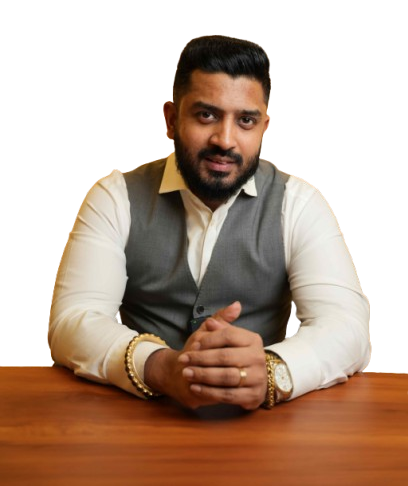
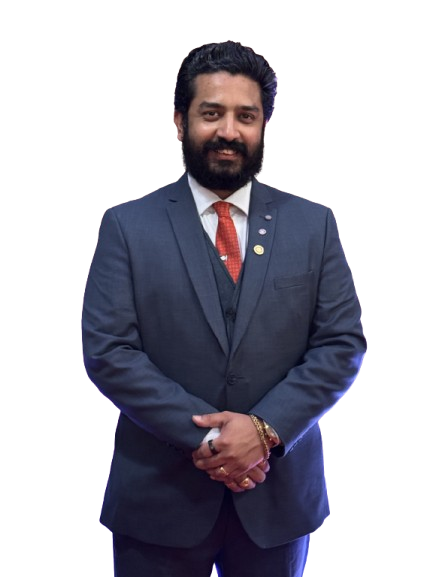
new push

diff --git a/src/app/gallery/page.tsx b/src/app/gallery/page.tsx
@@ -9,23 +9,23 @@ export const metadata = {
 
 // Gallery images from /images/gallery/1.jpg to 75.jpg
 const galleryImages: GalleryImage[] = [
+  { id: 76, src: '/images/gallery/76.jpg', alt: 'MVCON Moment 76', size: 'medium' },
+  { id: 77, src: '/images/gallery/77.jpg', alt: 'MVCON Moment 77', size: 'medium' },
+  { id: 78, src: '/images/gallery/78.jpg', alt: 'MVCON Moment 78', size: 'medium' },
+  { id: 79, src: '/images/gallery/79.jpg', alt: 'MVCON Moment 79', size: 'medium' },
+  { id: 80, src: '/images/gallery/80.jpg', alt: 'MVCON Moment 80', size: 'medium' },
+  { id: 81, src: '/images/gallery/81.jpg', alt: 'MVCON Moment 81', size: 'medium' },
+  { id: 82, src: '/images/gallery/82.jpg', alt: 'MVCON Moment 82', size: 'medium' },
+  { id: 83, src: '/images/gallery/83.jpg', alt: 'MVCON Moment 83', size: 'medium' },
+  { id: 84, src: '/images/gallery/84.jpg', alt: 'MVCON Moment 84', size: 'medium' },
+  { id: 85, src: '/images/gallery/85.jpg', alt: 'MVCON Moment 85', size: 'medium' },
   { id: 1, src: '/images/gallery/1.jpg', alt: 'MVCON Moment 1', size: 'small' },
   { id: 2, src: '/images/gallery/2.jpg', alt: 'MVCON Moment 2', size: 'small' },
-  { id: 3, src: '/images/gallery/3.jpg', alt: 'MVCON Moment 3', size: 'medium' },
-  { id: 4, src: '/images/gallery/4.jpg', alt: 'MVCON Moment 4', size: 'large' },
-  { id: 5, src: '/images/gallery/5.jpg', alt: 'MVCON Moment 5', size: 'small' },
-  { id: 6, src: '/images/gallery/6.jpg', alt: 'MVCON Moment 6', size: 'medium' },
-  { id: 7, src: '/images/gallery/7.jpg', alt: 'MVCON Moment 7', size: 'small' },
+  { id: 4, src: '/images/gallery/4.jpg', alt: 'MVCON Moment 4', size: 'medium' },
   { id: 8, src: '/images/gallery/8.jpg', alt: 'MVCON Moment 8', size: 'large' },
-  { id: 9, src: '/images/gallery/9.jpg', alt: 'MVCON Moment 9', size: 'medium' },
-  { id: 10, src: '/images/gallery/10.jpg', alt: 'MVCON Moment 10', size: 'small' },
   { id: 11, src: '/images/gallery/11.jpg', alt: 'MVCON Moment 11', size: 'small' },
   { id: 12, src: '/images/gallery/12.jpg', alt: 'MVCON Moment 12', size: 'large' },
   { id: 13, src: '/images/gallery/13.jpg', alt: 'MVCON Moment 13', size: 'small' },
-  { id: 14, src: '/images/gallery/14.jpg', alt: 'MVCON Moment 14', size: 'small' },
-  { id: 15, src: '/images/gallery/15.jpg', alt: 'MVCON Moment 15', size: 'medium' },
-  { id: 16, src: '/images/gallery/16.jpg', alt: 'MVCON Moment 16', size: 'large' },
-  { id: 17, src: '/images/gallery/17.jpg', alt: 'MVCON Moment 17', size: 'small' },
   { id: 18, src: '/images/gallery/18.jpg', alt: 'MVCON Moment 18', size: 'medium' },
   { id: 19, src: '/images/gallery/19.jpg', alt: 'MVCON Moment 19', size: 'small' },
   { id: 20, src: '/images/gallery/20.jpg', alt: 'MVCON Moment 20', size: 'large' },
@@ -60,40 +60,29 @@ const galleryImages: GalleryImage[] = [
   { id: 49, src: '/images/gallery/49.jpg', alt: 'MVCON Moment 49', size: 'small' },
   { id: 50, src: '/images/gallery/50.jpg', alt: 'MVCON Moment 50', size: 'small' },
   { id: 51, src: '/images/gallery/51.jpg', alt: 'MVCON Moment 51', size: 'medium' },
-  { id: 52, src: '/images/gallery/52.jpg', alt: 'MVCON Moment 52', size: 'large' },
+  { id: 52, src: '/images/gallery/52.jpg', alt: 'MVCON Moment 52', size: 'small' },
   { id: 53, src: '/images/gallery/53.jpg', alt: 'MVCON Moment 53', size: 'small' },
   { id: 54, src: '/images/gallery/54.jpg', alt: 'MVCON Moment 54', size: 'medium' },
   { id: 55, src: '/images/gallery/55.jpg', alt: 'MVCON Moment 55', size: 'small' },
   { id: 56, src: '/images/gallery/56.jpg', alt: 'MVCON Moment 56', size: 'large' },
   { id: 57, src: '/images/gallery/57.jpg', alt: 'MVCON Moment 57', size: 'medium' },
   { id: 58, src: '/images/gallery/58.jpg', alt: 'MVCON Moment 58', size: 'small' },
-  { id: 59, src: '/images/gallery/59.jpg', alt: 'MVCON Moment 59', size: 'small' },
-  { id: 60, src: '/images/gallery/60.jpg', alt: 'MVCON Moment 60', size: 'large' },
+  { id: 59, src: '/images/gallery/59.jpg', alt: 'MVCON Moment 59', size: 'large' },
+  { id: 60, src: '/images/gallery/60.jpg', alt: 'MVCON Moment 60', size: 'medium' },
   { id: 61, src: '/images/gallery/61.jpg', alt: 'MVCON Moment 61', size: 'small' },
   { id: 62, src: '/images/gallery/62.jpg', alt: 'MVCON Moment 62', size: 'small' },
   { id: 63, src: '/images/gallery/63.jpg', alt: 'MVCON Moment 63', size: 'medium' },
-  { id: 64, src: '/images/gallery/64.jpg', alt: 'MVCON Moment 64', size: 'large' },
+  { id: 64, src: '/images/gallery/64.jpg', alt: 'MVCON Moment 64', size: 'small' },
   { id: 65, src: '/images/gallery/65.jpg', alt: 'MVCON Moment 65', size: 'small' },
   { id: 66, src: '/images/gallery/66.jpg', alt: 'MVCON Moment 66', size: 'medium' },
   { id: 67, src: '/images/gallery/67.jpg', alt: 'MVCON Moment 67', size: 'small' },
-  { id: 68, src: '/images/gallery/68.jpg', alt: 'MVCON Moment 68', size: 'large' },
+  { id: 68, src: '/images/gallery/68.jpg', alt: 'MVCON Moment 68', size: 'small' },
   { id: 69, src: '/images/gallery/69.jpg', alt: 'MVCON Moment 69', size: 'medium' },
   { id: 70, src: '/images/gallery/70.jpg', alt: 'MVCON Moment 70', size: 'small' },
   { id: 71, src: '/images/gallery/71.jpg', alt: 'MVCON Moment 71', size: 'small' },
-  { id: 72, src: '/images/gallery/72.jpg', alt: 'MVCON Moment 72', size: 'large' },
+  { id: 72, src: '/images/gallery/72.jpg', alt: 'MVCON Moment 72', size: 'medium' },
   { id: 73, src: '/images/gallery/73.jpg', alt: 'MVCON Moment 73', size: 'small' },
   { id: 74, src: '/images/gallery/74.jpg', alt: 'MVCON Moment 74', size: 'small' },
-  { id: 75, src: '/images/gallery/75.jpg', alt: 'MVCON Moment 75', size: 'medium' },
-  { id: 76, src: '/images/gallery/76.jpg', alt: 'MVCON Moment 76', size: 'medium' },
-  { id: 77, src: '/images/gallery/77.jpg', alt: 'MVCON Moment 77', size: 'medium' },
-  { id: 78, src: '/images/gallery/78.jpg', alt: 'MVCON Moment 78', size: 'medium' },
-  { id: 79, src: '/images/gallery/79.jpg', alt: 'MVCON Moment 79', size: 'medium' },
-  { id: 80, src: '/images/gallery/80.jpg', alt: 'MVCON Moment 80', size: 'medium' },
-  { id: 81, src: '/images/gallery/81.jpg', alt: 'MVCON Moment 81', size: 'medium' },
-  { id: 82, src: '/images/gallery/82.jpg', alt: 'MVCON Moment 82', size: 'medium' },
-  { id: 83, src: '/images/gallery/83.jpg', alt: 'MVCON Moment 83', size: 'medium' },
-  { id: 84, src: '/images/gallery/84.jpg', alt: 'MVCON Moment 84', size: 'medium' },
-  { id: 85, src: '/images/gallery/85.jpg', alt: 'MVCON Moment 85', size: 'medium' }
 ];
 
 export default function GalleryPage() {

diff --git a/src/components/GalleryGrid.tsx b/src/components/GalleryGrid.tsx
@@ -15,16 +15,13 @@ export type GalleryImage = {
 
 function GalleryImageItem({ image, onClick }: { image: GalleryImage; onClick: () => void }) {
   const [isLoaded, setIsLoaded] = useState(false);
-  
-  // Pre-calculate aspect ratio based on size to prevent Cumulative Layout Shift
-  const aspectRatio = image.size === 'large' ? '2/3' : image.size === 'medium' ? '1/1' : '4/3';
 
   return (
     <div 
-      className="group relative overflow-hidden rounded-2xl cursor-pointer shadow-sm hover:shadow-xl transition-all duration-500 bg-slate-100"
+      className="group relative overflow-hidden rounded-2xl cursor-pointer shadow-sm hover:shadow-xl transition-all duration-500 bg-slate-100 h-full w-full"
       onClick={onClick}
     >
-      <div className="relative w-full overflow-hidden" style={{ aspectRatio }}>
+      <div className="relative w-full h-full overflow-hidden">
         {/* Loading Skeleton */}
         {!isLoaded && (
           <div className="absolute inset-0 bg-slate-200 animate-pulse z-10" />
@@ -85,9 +82,13 @@ export default function GalleryGrid({ images }: { images: GalleryImage[] }) {
 
   return (
     <>
-      <div className="columns-1 sm:columns-2 lg:columns-3 gap-6 w-full">
+      <div className="grid grid-cols-1 sm:grid-cols-2 lg:grid-cols-3 gap-6 w-full auto-rows-[250px] sm:auto-rows-[300px] grid-flow-row-dense">
         {images.map((image, index) => (
-          <AnimatedImageCard key={image.id} index={index}>
+          <AnimatedImageCard 
+            key={image.id} 
+            index={index}
+            className={image.size === 'large' ? 'row-span-2' : 'row-span-1'}
+          >
             <GalleryImageItem image={image} onClick={() => setSelectedIndex(index)} />
           </AnimatedImageCard>
         ))}

diff --git a/src/components/AnimatedImageCard.tsx b/src/components/AnimatedImageCard.tsx
@@ -6,9 +6,11 @@ import { ReactNode } from "react";
 export default function AnimatedImageCard({
   children,
   index,
+  className = "",
 }: {
   children: ReactNode;
   index: number;
+  className?: string;
 }) {
   return (
     <motion.div
@@ -20,7 +22,7 @@ export default function AnimatedImageCard({
         delay: (index % 8) * 0.1,
         ease: "easeOut",
       }}
-      className="break-inside-avoid mb-6"
+      className={`h-full ${className}`}
     >
       {children}
     </motion.div>
